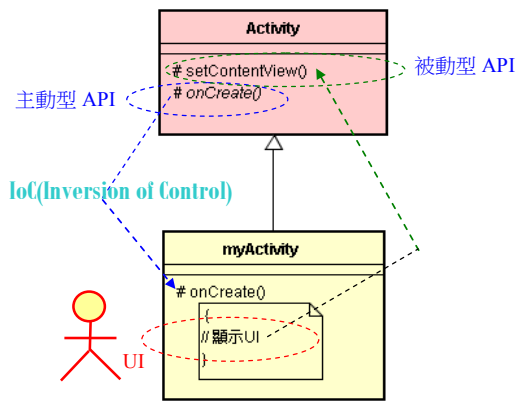
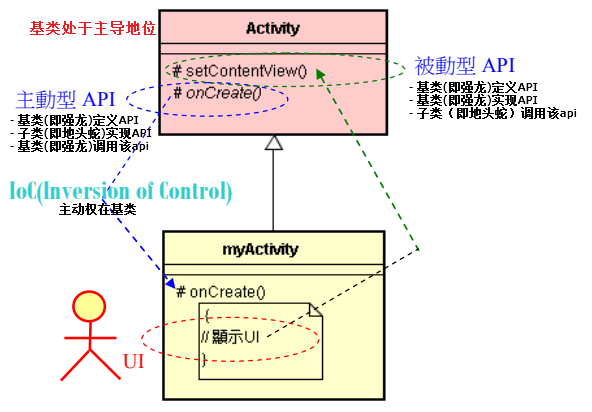
vault backup: 2023-06-02 18:43:03

diff --git a/IT/0 Android Framework/1.3 主动型 vs. 被动型API.md b/IT/0 Android Framework/1.3 主动型 vs. 被动型API.md
@@ -1,1 +1,6 @@
+- **针对于系统来说的**，或者说基类来说的
+- 基类定义接口，用于主导权
+- 子类只能实现基类定义的接口，**在基类的框架内操作**
+- **基类，即强龙； 子类，即地头蛇**
+
 ![](../photo/Pasted%20image%2020230602180556.png)
